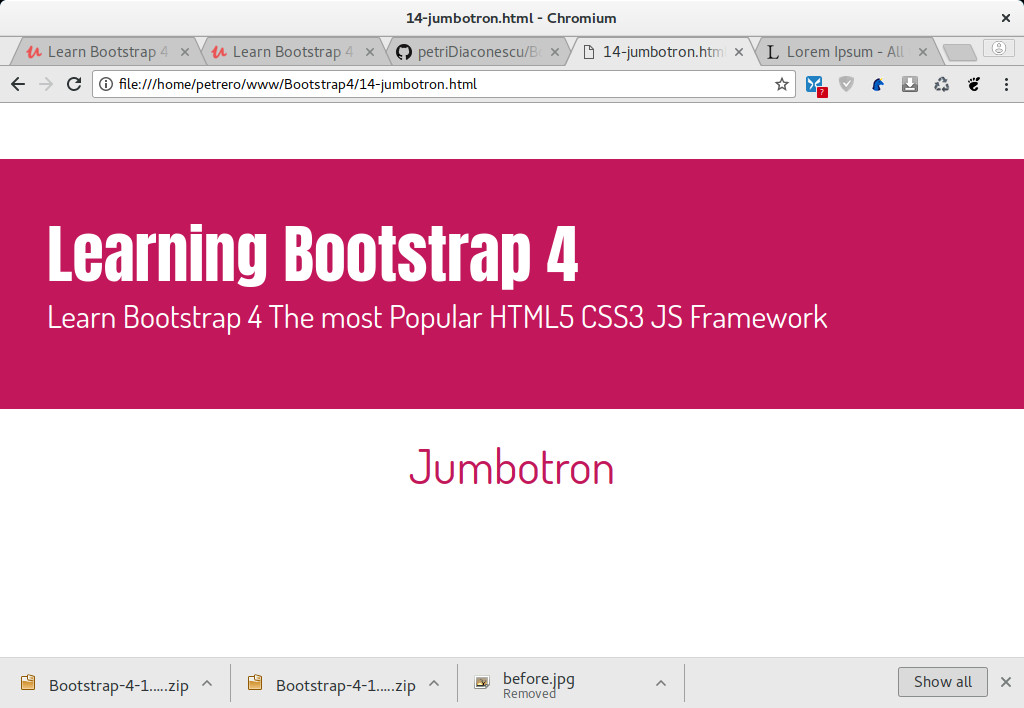
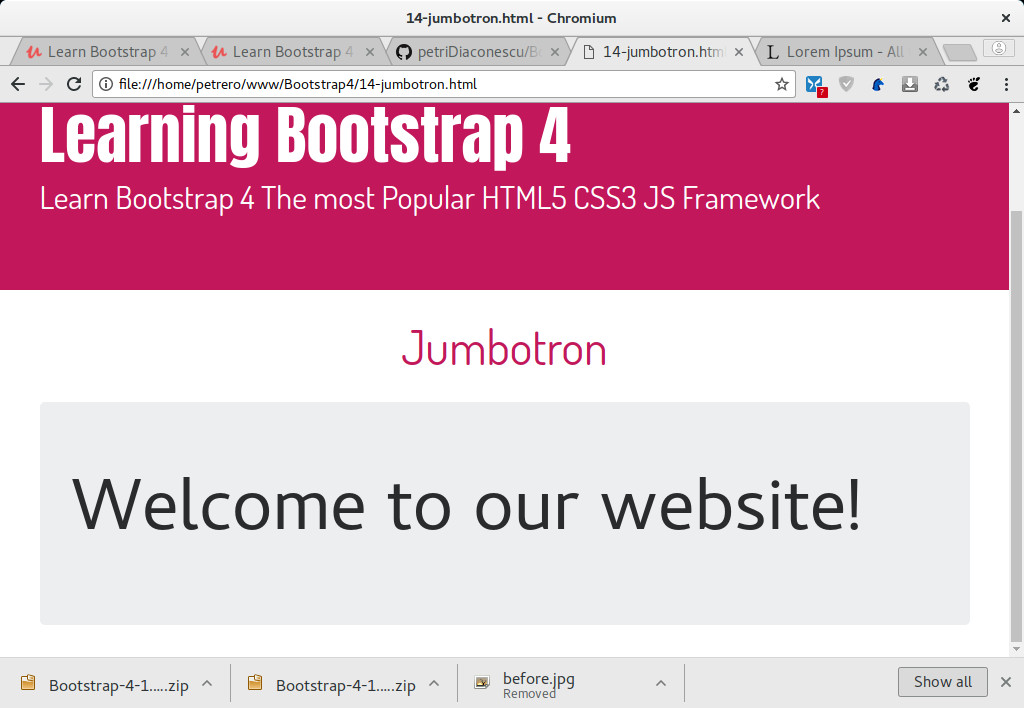
Complete our jumbotron component

Changed region(s): [[0.0, 0.1243, 1.0, 0.9011], [0.0625, 0.6215, 0.8438, 0.7458]]

diff --git a/14-jumbotron.html b/14-jumbotron.html
@@ -27,6 +27,10 @@
         <div class="col-12">
           <div class="jumbotron">
             <p class="display-3">Welcome to our website!</p>
+            <p class="lead">We provide web design, app development and e-commerce solutions for your business</p>
+            <hr class="my-4" />
+            <p class="text-uppercase">Second line of text here</p>
+            <a href="" class="btn btn-primary btn-lg">Learn more about our products</a>
           </div>
         </div>
       </div>
